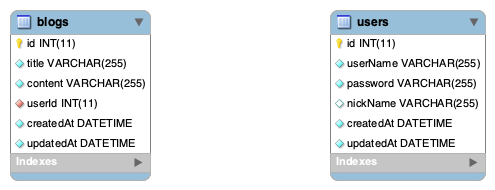
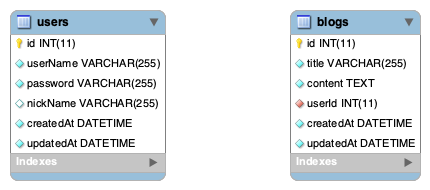
feat: talk about sequelize

diff --git a/Blog-New/sequelizetest/select.js b/Blog-New/sequelizetest/select.js
@@ -1,0 +1,99 @@
+
+const { Blog, User } = require('./model');
+
+;(async function() {
+
+  // const rick = await User.findOne({
+  //   where: {
+  //     userName: 'rick'
+  //   }
+  // });
+
+  // console.log('rick: ', rick.dataValues);
+
+  // const blogName = await Blog.findOne({
+  //   attributes: ['title', 'content'],
+  //   where: {
+  //     title: 'AAA'
+  //   }
+  // });
+  // console.log('rickName: ', blogName.dataValues);
+
+  const rickBlogList = await Blog.findAll({
+    where: {
+      userId: 1
+    },
+    order: [
+      ['id', 'desc']
+    ],
+    limit: 1, // blog number per page
+    offset: 1 // page number
+  });
+  console.log('rickBlogList: ', rickBlogList.map(blog => {
+    return blog.dataValues
+  }));
+
+  // query the total number
+  const blogListAndCount = await Blog.findAndCountAll({
+    order: [
+      ['id', 'desc']
+    ]
+  });
+  console.log('count: ', blogListAndCount.count, blogListAndCount.rows.map(blog => {
+    return blog.dataValues
+  }));
+
+
+  // using foreign key to query 
+
+  /* match with
+  Blog.belongsTo(User, {
+    // create foreign key Blog.userId -> User.id
+    foreignKey: 'userId'
+  });
+  */
+  const BlogListWithUser = await Blog.findAndCountAll({
+    order: [
+      ['id', 'desc']
+    ],
+    include: [
+      {
+        model: User,
+        attributes: ['userName', 'nickName'],
+        where: {
+          userName: 'rick'
+        }
+      }
+    ]
+  });
+
+  console.log('BlogListWithUser: ', BlogListWithUser.rows.map(blog => {
+    const blogVal = blog.dataValues;
+    blogVal.user = blogVal.user.dataValues;
+    return blogVal;
+  }));
+
+
+  /* match with 
+  User.hasMany(Blog, {
+    foreignKey: 'userId'
+  });
+  */
+
+  const UserListWithBlog = await User.findAndCountAll({
+    attributes: ['userName', 'nickName'],
+    include: [
+      {
+        model: Blog
+      }
+    ]
+  });
+
+  console.log('UserListWithBlog: ', UserListWithBlog.rows.map(user => {
+    const userVal = user.dataValues;
+    JSON.stringify(userVal.blogs = userVal.blogs.map(blog => blog.dataValues));
+    return userVal;
+  }));
+  
+})();
+

diff --git a/Blog-New/sequelizetest/create.js b/Blog-New/sequelizetest/create.js
@@ -1,0 +1,63 @@
+
+const { Blog, User } = require('./model');
+
+;(async function() {
+
+  // create users
+ 
+  const rick = await User.create({
+    userName: 'rick',
+    password: '666',
+    nickName: 'liyue'
+  });
+
+  
+  const leo = await User.create({
+    userName: 'leo',
+    password: '456',
+    nickName: 'liyue'
+  });
+  const claire = await User.create({
+    userName: 'claire',
+    password: '456',
+    nickName: 'miduo'
+  });
+  const aj = await User.create({
+    userName: 'aj',
+    password: '456',
+    nickName: 'qiyang'
+  });
+
+  // console.log('rick: ', rick.dataValues);
+  // insert into users (...) values (...)
+
+  const blog1 = await Blog.create({
+    title: 'AAA',
+    content: 'aaa',
+    userId: rick.dataValues.id
+  });
+
+  const blog2 = await Blog.create({
+    title: 'BBB',
+    content: 'bb',
+    userId: leo.dataValues.id
+  });
+
+  const blog3 = await Blog.create({
+    title: 'CCC',
+    content: 'cc',
+    userId: claire.dataValues.id
+  });
+
+  const blog4 = await Blog.create({
+    title: 'DDD',
+    content: 'dd',
+    userId: aj.dataValues.id
+  })
+
+  const blog5 = await Blog.create({
+    title: 'EEE',
+    content: 'eee',
+    userId: rick.dataValues.id
+  })
+})()

diff --git a/Blog-New/sequelizetest/delete.js b/Blog-New/sequelizetest/delete.js
@@ -1,0 +1,20 @@
+
+const { Blog, User } = require('./model');
+
+;(async function() {
+
+  // delete one blog
+  const delblogRes = await Blog.destroy({
+    where: {
+      id: 4
+    }
+  });
+  console.log('res: ', delblogRes > 0);
+
+  const delUserRes = await User.destroy({
+    where: {
+      id: 1
+    }
+  });
+  console.log('res: ', delUserRes);
+})();

diff --git a/Blog-New/sequelizetest/seq.js b/Blog-New/sequelizetest/seq.js
@@ -5,6 +5,14 @@ const conf = {
   host: 'localhost',
   dialect: 'mysql'
 }
+
+// will use on the 'production' environment 
+conf.pool = {
+  max: 6, // the maximum connection number in pool
+  min: 0,
+  idle: 10000, // the connect will be release after idle 10s
+  
+}
 const seq = new Sequelize('blog', 'root', 'abc123456', conf);
 
 

diff --git a/Blog-New/sequelizetest/update.js b/Blog-New/sequelizetest/update.js
@@ -1,0 +1,14 @@
+
+const { Blog, User } = require('./model');
+
+;(async function() {
+
+  const updateResult = await User.update({
+    nickName: 'leo666'
+  }, {
+    where: {
+      userName: 'leo666'
+    }
+  })
+  console.log('res: ', updateResult[0] > 0);
+})();

diff --git a/Blog-New/sequelizetest/model.js b/Blog-New/sequelizetest/model.js
@@ -33,7 +33,7 @@ const Blog = seq.define('blog', {
     allowNull: false
   },
   content: {
-    type: Sequelize.STRING,
+    type: Sequelize.TEXT,
     allowNull: false
   },
   userId: {
